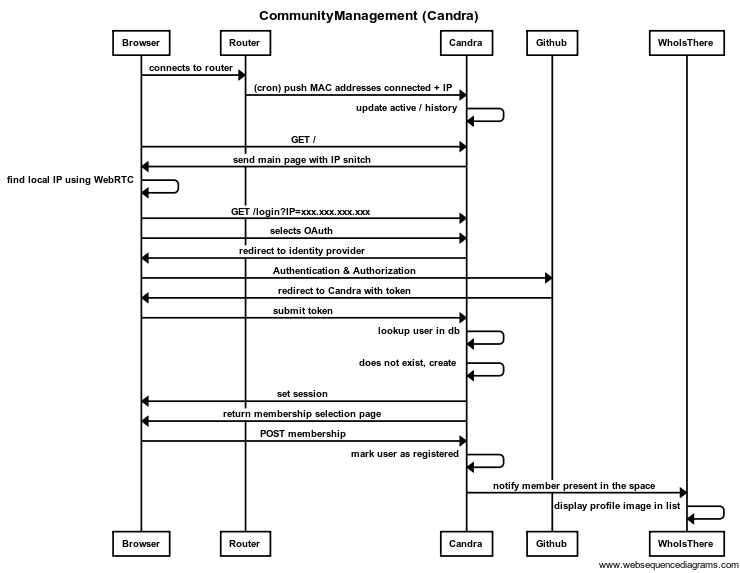
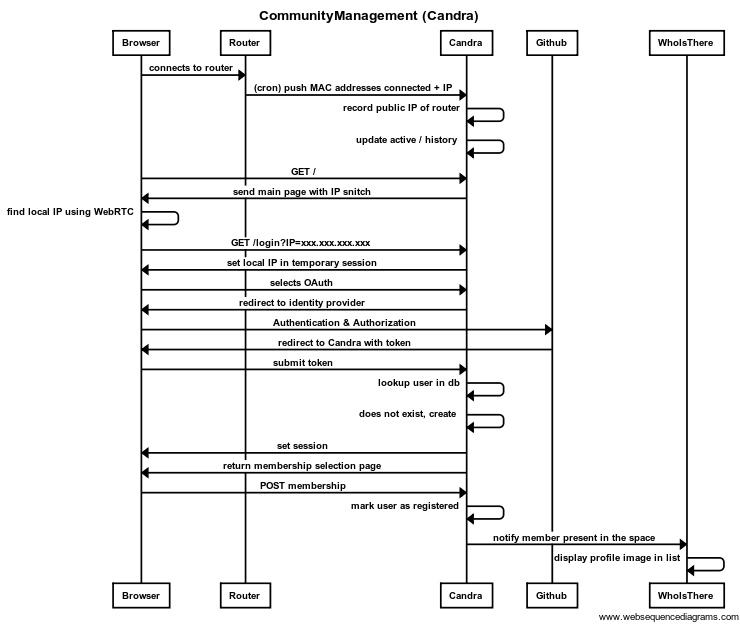
create the README.md content

diff --git a/README.md b/README.md
@@ -1,16 +1,101 @@
+# CANDRA: Community Advanced Networked Directory & Resources Administration
 
+## High-level problems
+
+Tech communities characterized by physical space, tooling and memberships such as Hackerspaces, Makerspaces, Fablabs have generally similar requirements for the software to manage their communities. 
+
+With a pool of technically qualified and ambitious members with a "just-do-it" attitude this had led to the creation of tens if not hundreds of different management systems for these communities, with varying degrees of completeness. None of the current solutions on the market have yet have come to dominate and establish themselves as a defacto standard. 
+
+This creates challenges for new communities when trying to select a system, often resulting in a perverse cycle of creating yet another management system that only sort of works for that particular community.
+
+At an high-level, these are the issues preventing widespread adoption of a single system:
+
+* each system is often the result of a part-time or short-term volunteer efforts
+* difficult to reach a critical mass of users adoption necessary to sufficient generalize the system
+* challenges in creating a critical mass of developers around the open source project
+* poor understanding of global requirements (i18n/l10n, payment gateways integration, taxes, etc)
+* hard for individual communities to evaluate the software quality attributes of a particular system
+* complexity in maintaining the software solutions and the data it generates
+
+This results in numerous problems, among which:
+
+* time spent on management instead of making
+* redundant efforts invested in systems
+* lack of support and long term maintenance
+* lack of a defacto standard API to third party components to (door locks)
+
+## Specific challenges
+
+Streamlining the new members onboarding process is an important part as is creating a sense of excitement for new members or between active members is important.
+
+Typical tasks include:
+
+* authentication 
+* membership option (duration) selection 
+* payment
+* profile
+* resources search and reservation
+
+## Specific goal of the current demo
+
+Some of the questions members can ask are:
+
+* who are the members of the community?
+* who are ACTIVE members of the community?
+* who is in the space right now?
+
+In addition, authentication is required to gain privileged access to resources (such as Internet or the space itself) after authentication
+
+We've decided to focus on:
+
+* registering new members
+* associating the device they use with members
+* tracking presence/absence of members in the space
+
+Challenges:
+
+* OAuth flow with Github
+* Creating a REST Endpoint the router can post IP -> MAC address mapping associated to public IP
+ * making sure ARP table is updated for all MAC addresses
+ * creating recurring cron job on device
+* Submitting and looking up [local IP, MAC address, public IP] on requests
+* CANDRA must also deal with the delay in the update of the IP -> MAC association
+* single organization can actually have multiple physical spaces
+* N members * N devices * N access points
+
+![Sequence diagram](https://raw.githubusercontent.com/codersfield/candra/master/docs/WhoIsThere.png)
+
+## Why MeteorJS?
+
+* Fast development turn around
+* Easier to teach new comers
+* Fast, responsive, reactive interfaces that update in real-time
+* Easier management of complex dependencies
+
+# Installation
+
+## Meteor
+
+```
+git checkout git@github.com:codersfield/candra.git
+cd candra
+meteor
+```
 
 ## Uploading ARP (on a tomato router when it is not the DHCP server)
 
 Find where the Candra server is:
 
+ssh root@<router ip>
+
+edit /tmp/home/root/uploadarp.sh
 
 ```
 #!/bin/ash
-
 CANDRA_SERVER_URL=http://192.169.15.76:3099
 CANDRA_SERVER_BEARER_TOKEN=abcd
 SUBNET=192.169.15
+
 for lastoctet in $(seq 254)
 do 
   ping -W 1 -c 1 $SUBNET.$lastoctet
@@ -23,3 +108,7 @@ Create a cronjob:
 ```
 cru a UploadARP "*/5 * * * * /tmp/home/root/uploadarp.sh"
 ```
+
+## References
+
+* http://www.polarcloud.com/tomatofaq

diff --git a/docs/DIAGRAMS.md b/docs/DIAGRAMS.md
@@ -11,8 +11,8 @@ Router->Candra: (cron) push MAC addresses connected + IP
 Candra->Candra: record public IP of router
 Candra->Candra: update active / history
 Browser->Candra: GET /
-Candra->Browser: send main page with IP snitch
-Browser->Browser: find local IP using WebRTC
+Candra->Browser: send main page
+Browser->Browser: find local IP using dummy WebRTC session
 Browser->Candra: GET /login?IP=xxx.xxx.xxx.xxx
 Candra->Browser: set local IP in temporary session
 Browser->Candra: selects OAuth
